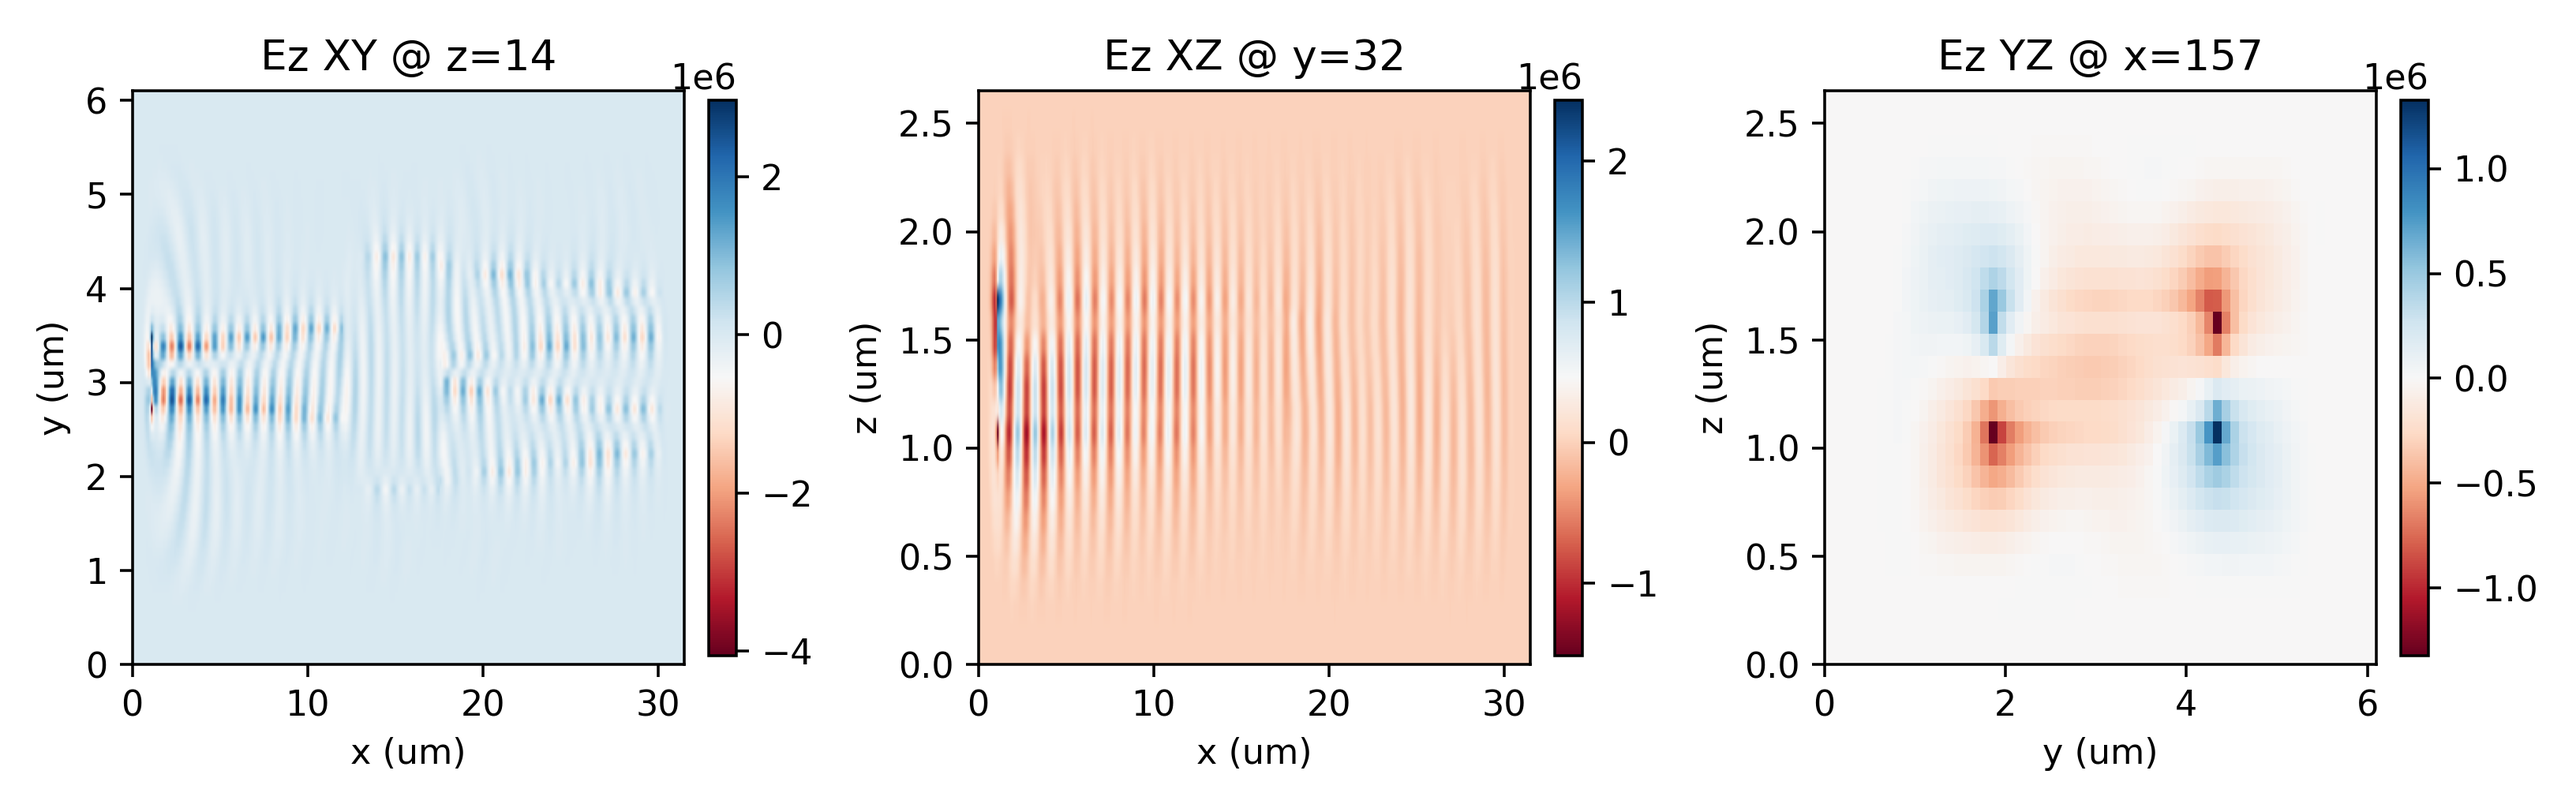
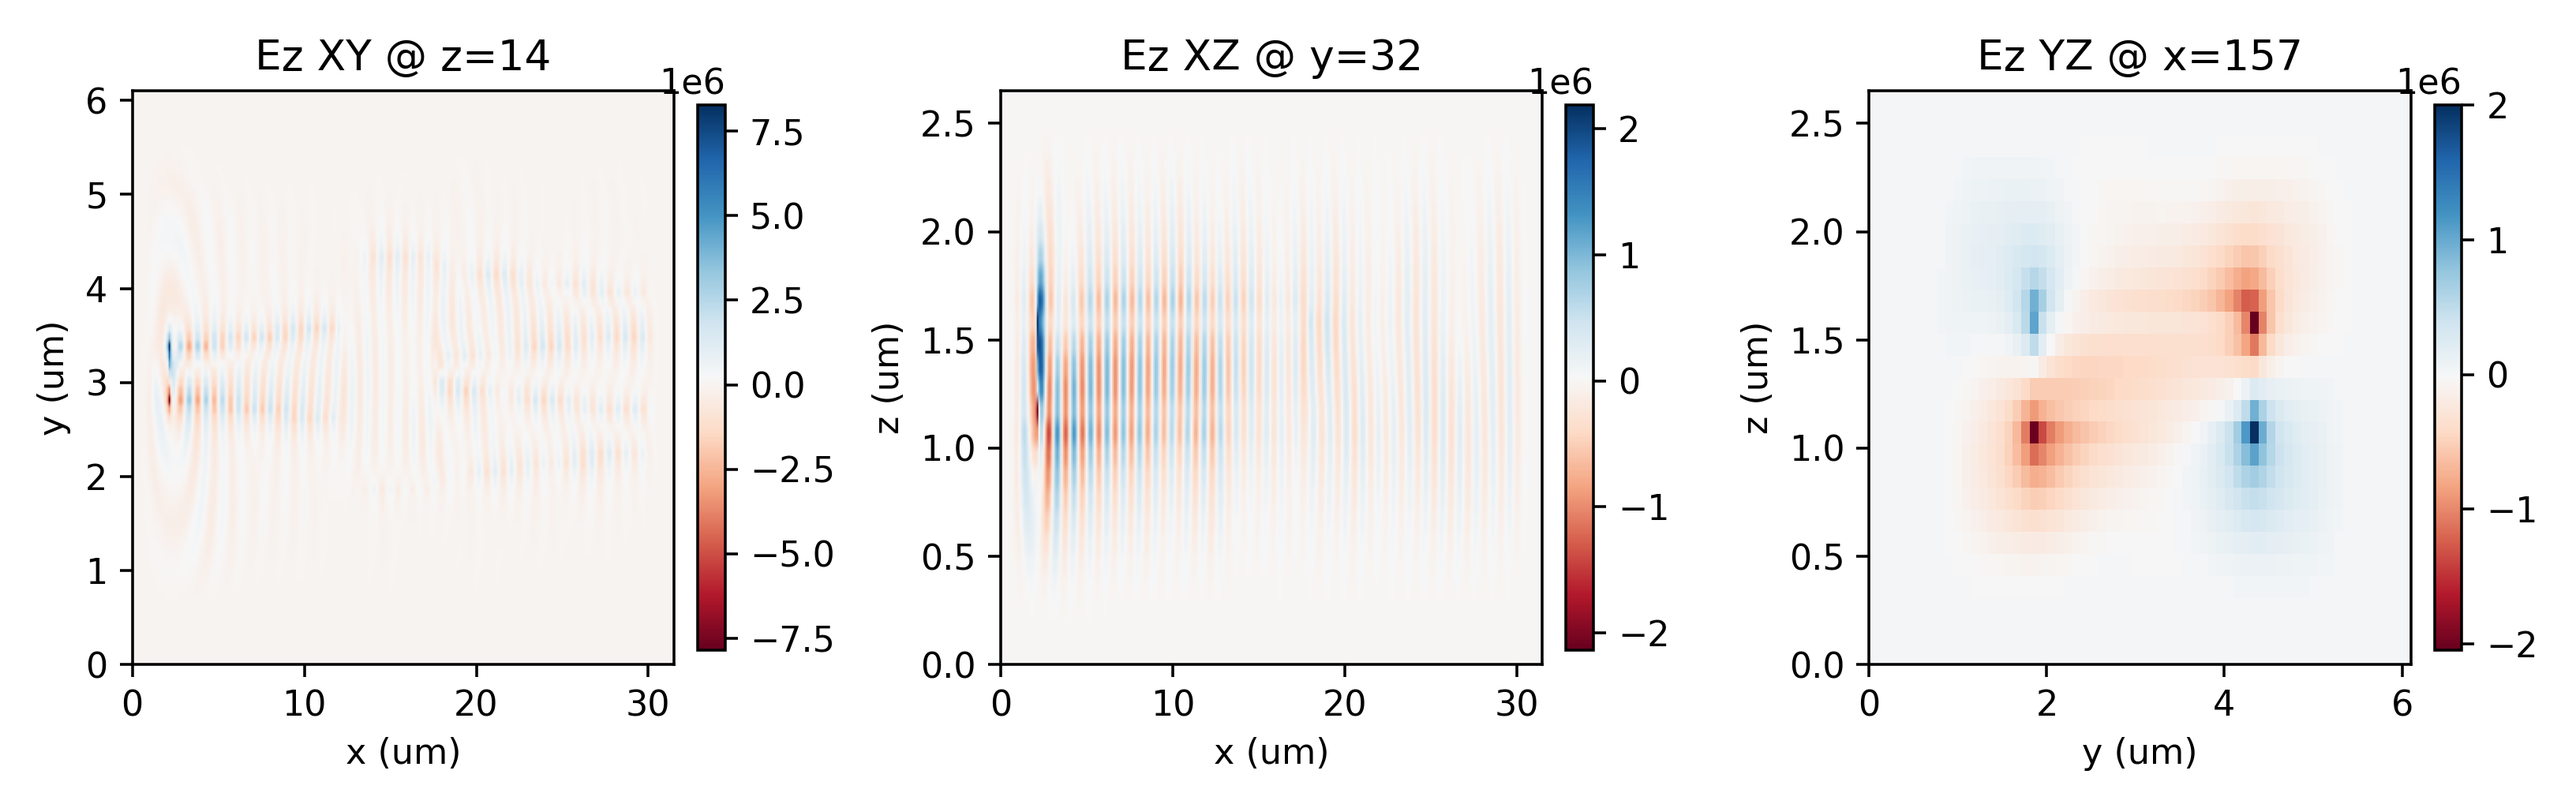
Add PML line drawing functions and update source positioning in 3D simulation
- Introduced functions to draw perfectly matched layer (PML) lines in XY and XZ planes for better visualization.
- Updated source positioning logic to ensure the source remains within non-PML regions.
- Adjusted monitor overlap statistics calculations for improved accuracy in simulation results.
- Saved new output images reflecting these changes in the benchmark results.

diff --git a/examples/gdsf_to_sax_3d.py b/examples/gdsf_to_sax_3d.py
@@ -80,6 +80,31 @@ def monitor_inside_non_pml(monitor_bounds, *, width, height, depth, pml_xy, pml_
     )
 
 
+def draw_pml_lines_xy(ax, *, width, height, pml_xy, pml_right, color="white"):
+    ax.axvline(float(pml_xy) / µm, color=color, lw=1.0, ls="--", alpha=0.85)
+    ax.axvline(float(width - pml_right) / µm, color=color, lw=1.0, ls="--", alpha=0.85)
+    ax.axhline(float(pml_xy) / µm, color=color, lw=1.0, ls="--", alpha=0.85)
+    ax.axhline(float(height - pml_xy) / µm, color=color, lw=1.0, ls="--", alpha=0.85)
+
+
+def draw_pml_lines_xz(ax, *, width, depth, pml_xy, pml_right, pml_z, color="white"):
+    ax.axvline(float(pml_xy) / µm, color=color, lw=1.0, ls="--", alpha=0.85)
+    ax.axvline(float(width - pml_right) / µm, color=color, lw=1.0, ls="--", alpha=0.85)
+    ax.axhline(float(pml_z) / µm, color=color, lw=1.0, ls="--", alpha=0.85)
+    ax.axhline(float(depth - pml_z) / µm, color=color, lw=1.0, ls="--", alpha=0.85)
+
+
+def monitor_overlap_stats(eps_grid, monitor_obj, dx, dy, dz, *, eps_core, eps_clad):
+    z_idx, y_idx, x_idx = monitor_obj.get_grid_slice_3d(dx, dy, dz, eps_grid.shape)
+    eps_roi = np.asarray(eps_grid[z_idx, y_idx, x_idx], dtype=float)
+    vals = eps_roi.reshape(-1)
+    if vals.size == 0:
+        return 0.0, 0.0, float("nan")
+    core_frac = float(np.mean(np.abs(vals - eps_core) <= np.abs(vals - eps_clad)))
+    clad_frac = float(np.mean(np.abs(vals - eps_clad) < np.abs(vals - eps_core)))
+    return core_frac, clad_frac, float(np.max(vals))
+
+
 def main():
     out_dir = Path("benchmarks/results/gdsf_to_sax_debug")
     out_dir.mkdir(parents=True, exist_ok=True)
@@ -171,10 +196,19 @@ def main():
 
     grid = design.rasterize(resolution=dx)
 
+    pml_xy = 1.0 * wl0
+    pml_right = 1.5 * wl0
+    pml_z = 0.5 * wl0
+    z_min = pml_z + 0.05 * µm
+    z_max = depth - pml_z - 0.05 * µm
+
     src = ports["o1"]
-    src_w = max(0.95 * µm, 1.7 * src["width"])
-    src_h = max(0.75 * µm, 1.8 * core_t)
-    source_xy = move_along(src["center"], src["direction"], -0.90 * µm)
+    src_w = max(0.70 * µm, 1.2 * src["width"])
+    src_h = max(0.50 * µm, 1.2 * core_t)
+    # Keep source safely inside the non-PML interior.
+    source_x_nominal = move_along(src["center"], src["direction"], -0.90 * µm)[0]
+    source_x = max(float(source_x_nominal), float(pml_xy + 0.60 * µm))
+    source_xy = (source_x, float(src["center"][1]))
     source = ModeSource(
         grid=grid,
         center=(source_xy[0], source_xy[1], core_zc),
@@ -186,14 +220,8 @@ def main():
         direction=src["direction"],
     )
 
-    pml_xy = 1.0 * wl0
-    pml_right = 1.5 * wl0
-    pml_z = 0.5 * wl0
-    z_min = pml_z + 0.05 * µm
-    z_max = depth - pml_z - 0.05 * µm
-
-    mon_y_span = max(0.90 * µm, 1.6 * src["width"])
-    mon_z_span = max(0.75 * µm, 1.8 * core_t)
+    mon_y_span = max(0.62 * µm, 1.15 * src["width"])
+    mon_z_span = max(0.55 * µm, 1.25 * core_t)
 
     fwd_xy = move_along(src["center"], src["direction"], +0.70 * µm)
     ref_xy = move_along(src["center"], src["direction"], -0.20 * µm)
@@ -275,6 +303,35 @@ def main():
             pml_z=pml_z,
         )
         print(f"Monitor '{name}' inside non-PML: {inside}")
+    src_x, src_y, src_z = source.center
+    src_inside_non_pml = (
+        float(src_x) >= float(pml_xy)
+        and float(src_x) <= float(design.width - pml_right)
+        and float(src_y - 0.5 * source.width) >= float(pml_xy)
+        and float(src_y + 0.5 * source.width) <= float(design.height - pml_xy)
+        and float(src_z - 0.5 * source.height) >= float(pml_z)
+        and float(src_z + 0.5 * source.height) <= float(design.depth - pml_z)
+    )
+    print(f"Source inside non-PML: {src_inside_non_pml}")
+    for name, mon in [
+        ("o1_fwd", m_fwd),
+        ("o1_ref", m_ref),
+        ("o2_out", m_o2),
+        ("o3_out", m_o3),
+    ]:
+        core_frac, clad_frac, eps_max = monitor_overlap_stats(
+            np.asarray(grid.permittivity, dtype=float),
+            mon,
+            dx=dx,
+            dy=dx,
+            dz=dx,
+            eps_core=n_core**2,
+            eps_clad=n_clad**2,
+        )
+        print(
+            f"Monitor overlap '{name}': core_frac={core_frac:.3f}, "
+            f"clad_frac={clad_frac:.3f}, eps_max={eps_max:.3f}"
+        )
 
     sim = Simulation(
         design=design,
@@ -379,6 +436,13 @@ def main():
     ax[0, 0].set_xlabel("x (um)")
     ax[0, 0].set_ylabel("y (um)")
     fig.colorbar(im0, ax=ax[0, 0], fraction=0.046, pad=0.04)
+    draw_pml_lines_xy(
+        ax[0, 0],
+        width=design.width,
+        height=design.height,
+        pml_xy=pml_xy,
+        pml_right=pml_right,
+    )
 
     for name, (s, e), color in [
         ("o1_fwd", (fwd_start, fwd_end), "white"),
@@ -391,6 +455,13 @@ def main():
         y1_um = max(s[1], e[1]) / µm
         ax[0, 0].plot([x_um, x_um], [y0_um, y1_um], color=color, lw=1.5)
         ax[0, 0].text(x_um, y1_um + 0.04, name, color=color, fontsize=7, ha="center")
+    ax[0, 0].plot(
+        [src_x / µm, src_x / µm],
+        [(src_y - 0.5 * source.width) / µm, (src_y + 0.5 * source.width) / µm],
+        color="red",
+        lw=1.8,
+    )
+    ax[0, 0].text(src_x / µm, (src_y + 0.5 * source.width) / µm + 0.04, "source", color="red", fontsize=7, ha="center")
 
     labels = ["|S11|^2", "|S21|^2", "|S31|^2", "closure"]
     vals = [p11, p21, p31, closure]
@@ -434,6 +505,31 @@ def main():
     ax[1, 1].set_xlabel("x (um)")
     ax[1, 1].set_ylabel("z (um)")
     fig.colorbar(im1, ax=ax[1, 1], fraction=0.046, pad=0.04)
+    draw_pml_lines_xz(
+        ax[1, 1],
+        width=design.width,
+        depth=design.depth,
+        pml_xy=pml_xy,
+        pml_right=pml_right,
+        pml_z=pml_z,
+    )
+    ax[1, 1].plot(
+        [src_x / µm, src_x / µm],
+        [(src_z - 0.5 * source.height) / µm, (src_z + 0.5 * source.height) / µm],
+        color="red",
+        lw=1.8,
+    )
+    for name, (s, e), color in [
+        ("o1_fwd", (fwd_start, fwd_end), "white"),
+        ("o1_ref", (ref_start, ref_end), "cyan"),
+        ("o2_out", out_planes["o2"], "orange"),
+        ("o3_out", out_planes["o3"], "orange"),
+    ]:
+        x_um = 0.5 * (s[0] + e[0]) / µm
+        z0_um = min(s[2], e[2]) / µm
+        z1_um = max(s[2], e[2]) / µm
+        ax[1, 1].plot([x_um, x_um], [z0_um, z1_um], color=color, lw=1.3)
+        ax[1, 1].text(x_um, z1_um + 0.02, name, color=color, fontsize=6.5, ha="center")
 
     fig.tight_layout()
     fig.savefig(out_png, dpi=320)
